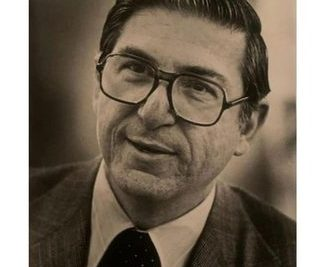
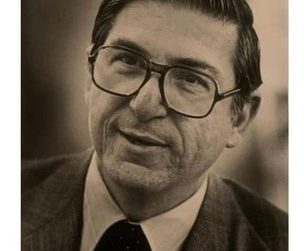
James: face shifted down, slight zoom

diff --git a/index.html b/index.html
@@ -309,7 +309,7 @@
         <section class="experience-section"><div class="section-container"><div class="section-header"><h2 class="section-title">Professional Background</h2><div class="divider"></div></div><div class="experience-timeline"><div class="experience-item"><div class="experience-date">2023 – Present</div><div class="experience-content"><h4>Founder & Chairman</h4><p class="experience-org">Likoudis Legacy Foundation (501(c)(3))</p><p>Built a research institute from scratch—recruited board members and a nine-person advisory council of theologians, launched an academic journal and fellows program, and established the Foundation as a respected voice in Catholic ecumenical scholarship.</p></div></div><div class="experience-item"><div class="experience-date">Jun – Aug 2025</div><div class="experience-content"><h4>Summer Intern, News & Analysis</h4><p class="experience-org">EWTN / National Catholic Register</p><p>Produced 17 published articles covering policy, governance, ethics, and emerging technology. Reported from the field on breaking stories and conducted interviews with Catholic leaders.</p></div></div><div class="experience-item"><div class="experience-date">2022 – 2026</div><div class="experience-content"><h4>Young Adult Representative</h4><p class="experience-org">Archdiocesan Pastoral Council, Archdiocese of Baltimore</p><p>One of four at-large positions on the fourteen-member council advising Archbishop Lori. Brought the perspective of young adult Catholics to archdiocesan strategic discussions and pastoral initiatives.</p></div></div><div class="experience-item"><div class="experience-date">May – Dec 2023</div><div class="experience-content"><h4>Development Administrative Assistant</h4><p class="experience-org">Cathedral of Mary Our Queen</p><p>Supported a $5 million capital campaign—managed donor communications, coordinated events, maintained the giving database, and assisted with grant writing and compliance documentation.</p></div></div><div class="experience-item"><div class="experience-date">Sept – Dec 2022</div><div class="experience-content"><h4>Fellow, Marketing Development</h4><p class="experience-org">Goldman Sachs 10,000 Small Businesses</p><p>Supported TargetGov, a government contracting firm, with marketing strategy, procurement research, and client database expansion using Salesforce, Mailchimp, and Basecamp.</p></div></div><div class="experience-item"><div class="experience-date">Mar – Sept 2022</div><div class="experience-content"><h4>Fellow, Economic Development</h4><p class="experience-org">Johns Hopkins University / Bloomberg Philanthropies</p><p>Contributed to a Bloomberg-backed workforce development initiative in collaboration with Julep Consulting. Produced policy memos and procurement research for a Johns Hopkins–Goldman Sachs–Baltimore City partnership.</p></div></div><div class="experience-item"><div class="experience-date">2017 – Present</div><div class="experience-content"><h4>Hospitality Host & Property Manager</h4><p class="experience-org">Airbnb Superhost</p><p>Nearly a decade managing short-term rental operations across multiple properties—handling guest relations, property maintenance, and financial performance.</p></div></div></div></div></section>
         <section style="padding:3.5rem 1.5rem"><div class="section-container"><div class="section-header"><h2 class="section-title">Building on a Legacy of Faith</h2><div class="divider"></div></div><div style="max-width:900px;margin:0 auto;display:grid;grid-template-columns:repeat(2,1fr);gap:2rem">
 <div style="background:#fff;padding:1.5rem;border-radius:6px;box-shadow:0 8px 25px -8px rgba(0,0,0,.1);border-left:3px solid var(--gold);text-align:center">
-<img src="photo-james-likoudis.jpg" alt="James Likoudis" style="width:100px;height:100px;border-radius:50%;object-fit:cover;object-position:center 20%;border:2px solid rgba(201,169,98,.3);margin-bottom:1rem" loading="lazy">
+<img src="photo-james-likoudis.jpg" alt="James Likoudis" style="width:100px;height:100px;border-radius:50%;object-fit:cover;object-position:center 25%;border:2px solid rgba(201,169,98,.3);margin-bottom:1rem" loading="lazy">
 <h4 style="font-family:'Cormorant Garamond',serif;font-size:1.2rem;color:var(--burgundy);margin-bottom:.5rem">James Likoudis <span style="font-size:.85rem;color:var(--text-light)">(1928–2024)</span></h4>
 <p style="font-size:.85rem;color:var(--text-light);margin-bottom:.75rem"><em>Grandfather</em></p>
 <p style="font-size:.9rem">President Emeritus of <strong>Catholics United for the Faith</strong>. Convert from Greek Orthodoxy who became a leading voice for Catholic-Orthodox reunion. His lifelong work defending <strong>Vatican II</strong>, the <strong>liturgical reform</strong>, and reconciling Catholics and Eastern Orthodox earned him an honorary <strong>Doctorate of Divinity</strong> from Sacred Heart Major Seminary.</p>
